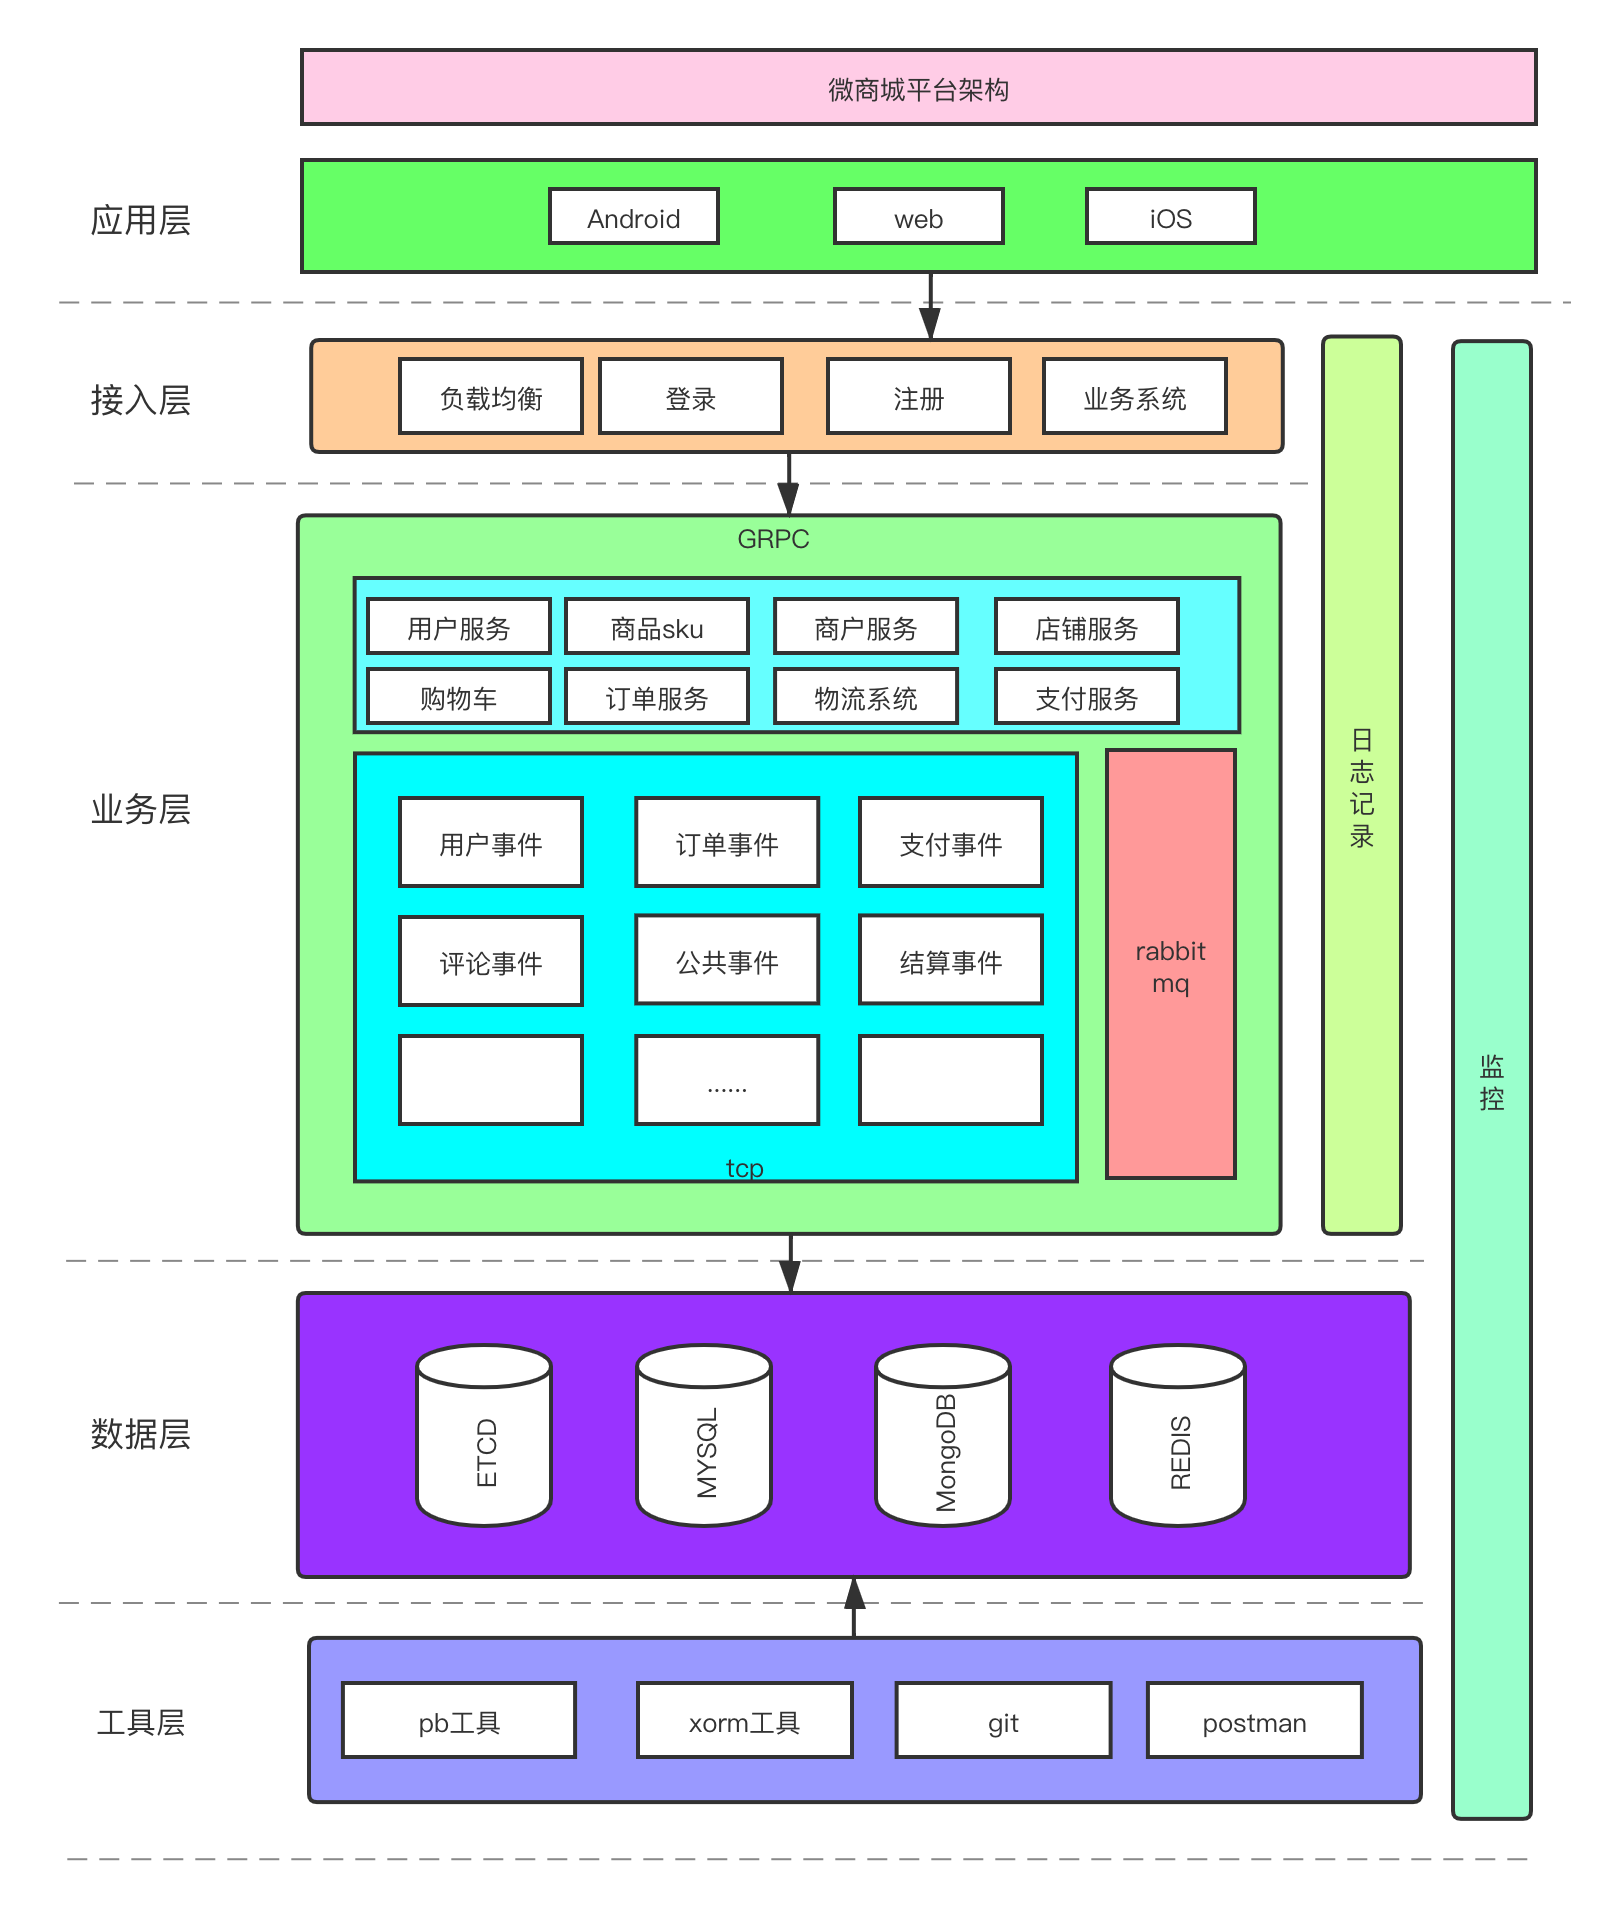
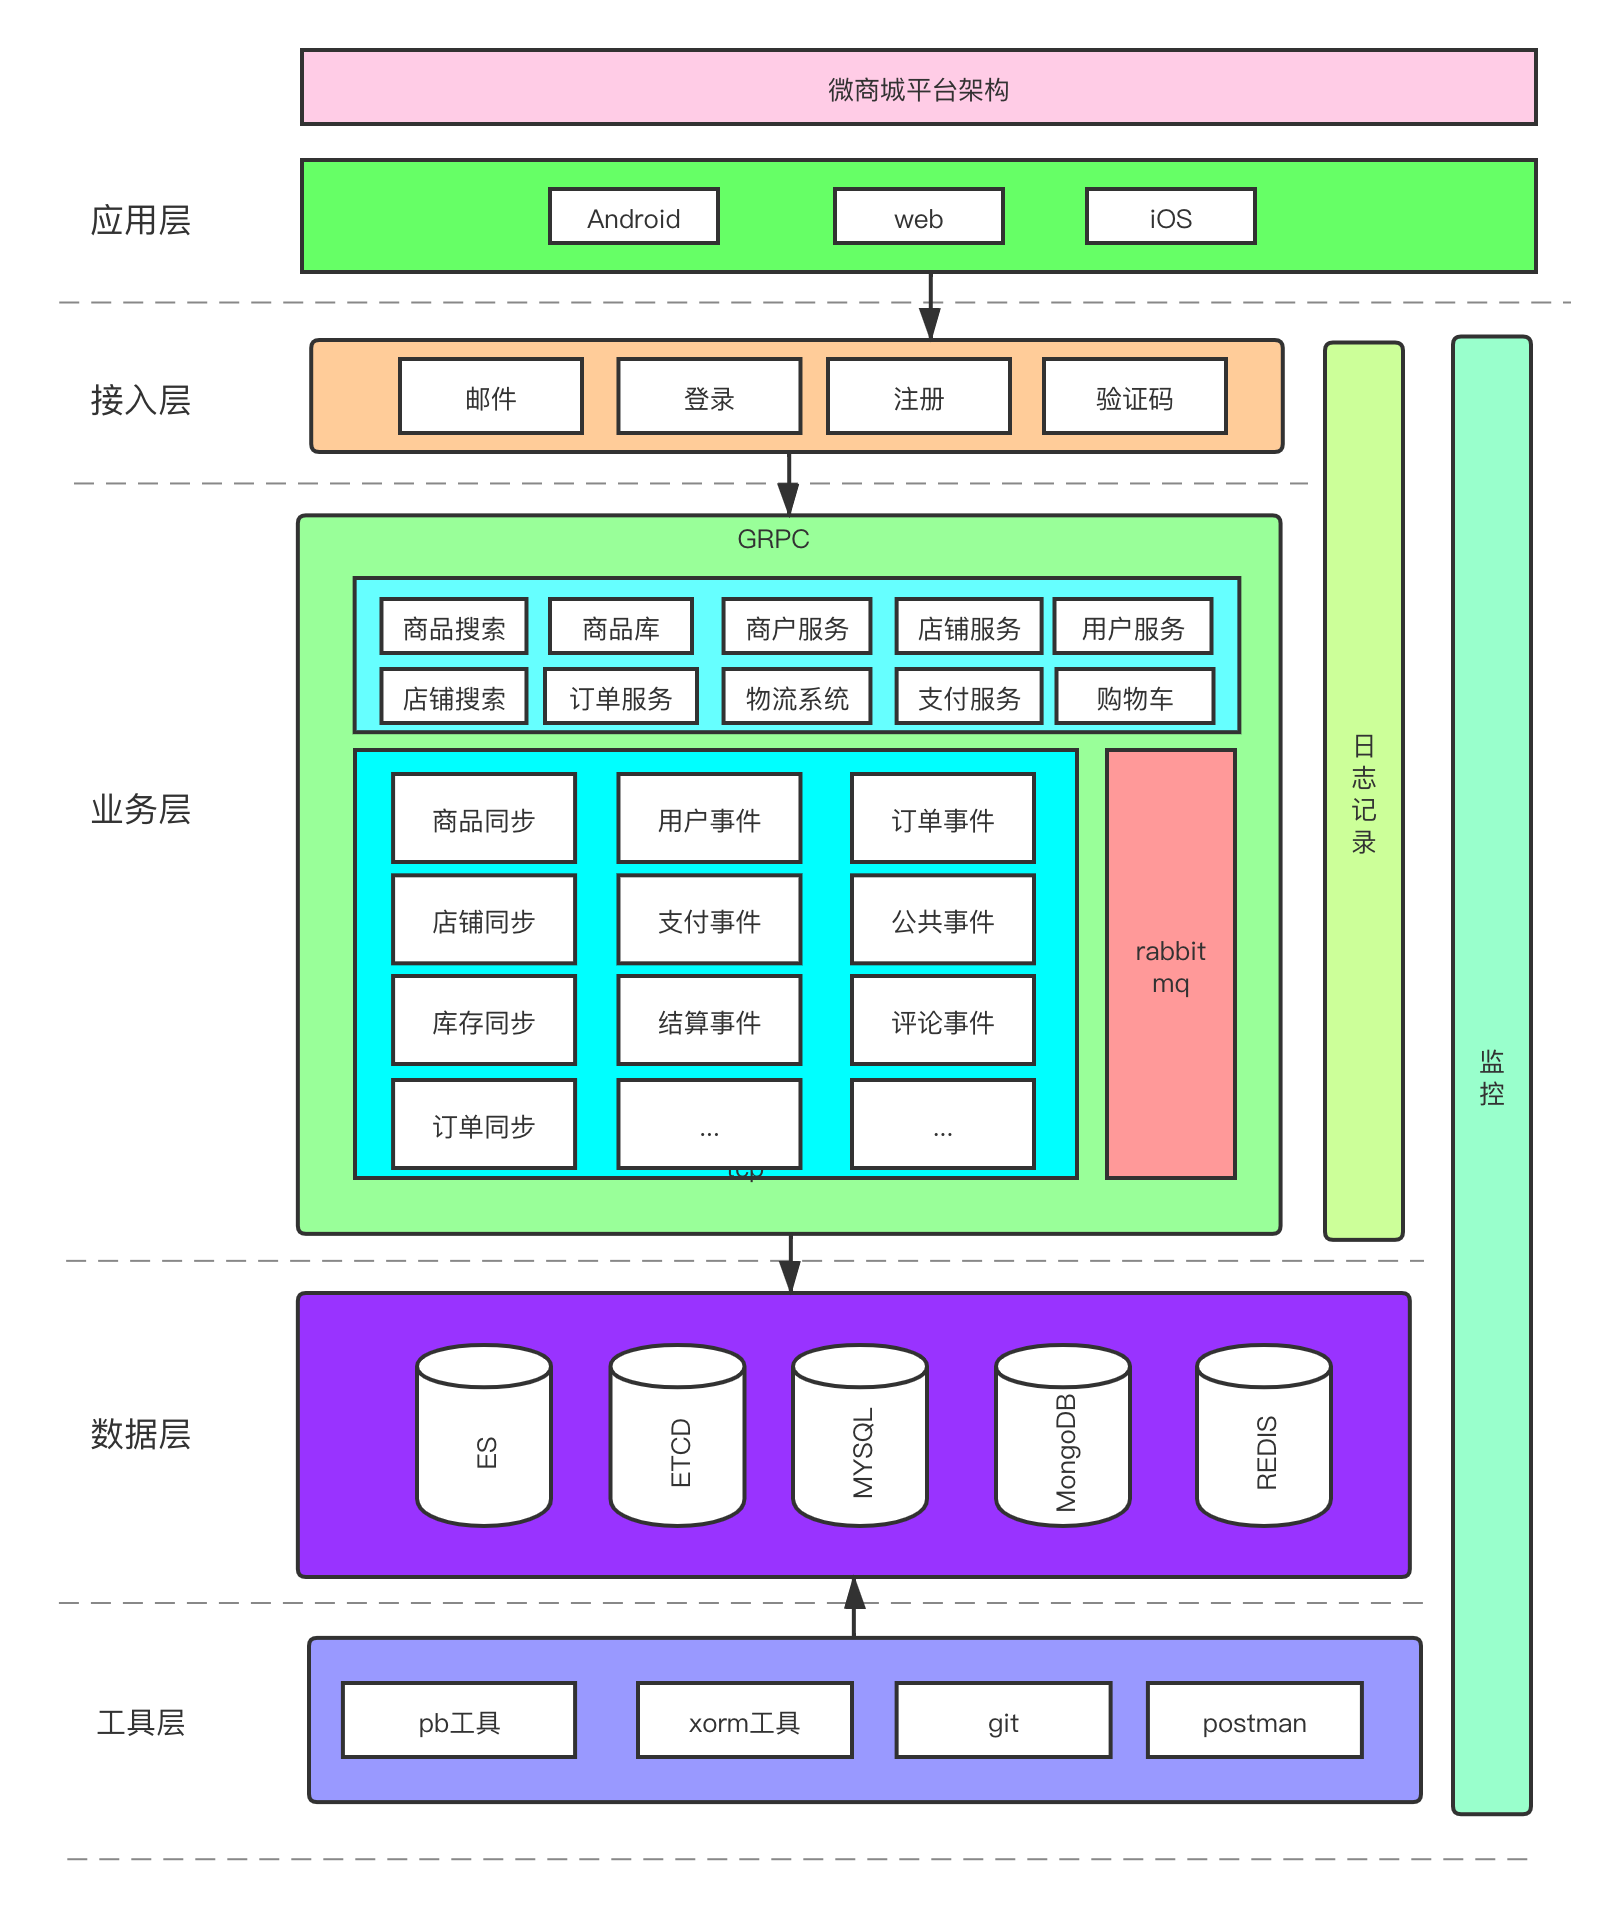
README.md

diff --git a/README.md b/README.md
@@ -5,8 +5,8 @@
 
 #### 软件架构
 gin + xorm + mysql + redis + rabbitmq + grpc + etcd + MongoDB + protobuf + prometheus     
-服务间通信采用gRPC，服务注册/发现采用etcd，消息事件采用rabbitmq
-protobuf v3     
+服务间通信采用gRPC（protobuf v3 ），服务注册/发现采用etcd，消息事件采用rabbitmq， 搜索采用elasticsearch 
+    
 
 用户鉴权   
 jwt
